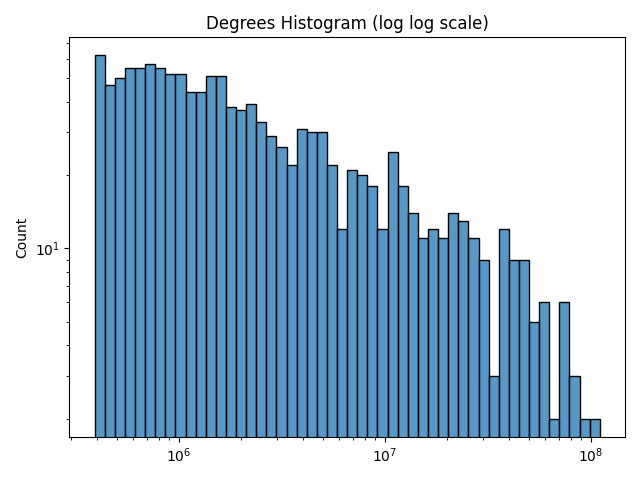
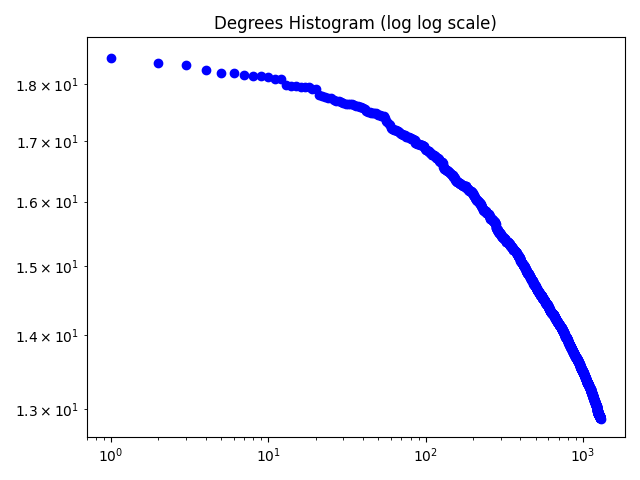
added closeness centrality

diff --git a/airport_network.py b/airport_network.py
@@ -68,8 +68,8 @@ class AirportGraph:
         log_scale_or_not = True
         degrees = np.array([self.graph.degree(n, weight='weight') for n in self.graph.nodes()])
         if log_scale_or_not:
-            sns.histplot(degrees, bins=50, log_scale=(True, True))
-            # plt.loglog(degrees, 'bo')
+            # sns.histplot(degrees,'bo', bins=50, log_scale=(True, True))
+            plt.loglog(sorted(degrees, reverse=True), 'bo')
             # plt.yscale('log')
             # plt.xscale('log')
             plt.title('Degrees Histogram (log log scale)')
@@ -98,6 +98,28 @@ class AirportGraph:
             plt.title('Betweenness Centrality Histogram')
             plt.tight_layout()
             plt.savefig('Betweenness_Centrality_Histogram.png')
+        plt.show()
+
+    def plot_closeness_centrality(self):
+        log_scale_or_not = False
+        # inward_or_outward = "Inward"
+        inward_or_outward = "Outward"
+        if inward_or_outward == "Inward":
+            closeness_centrality = nx.closeness_centrality(self.graph)
+        else:
+            closeness_centrality = nx.closeness_centrality(self.graph.reverse())
+        closeness_centrality_list = [value for key, value in closeness_centrality.items() if value >= 1e-300]
+        plt.clf()
+        if log_scale_or_not:
+            sns.histplot(closeness_centrality_list, bins=200, log_scale=(True, True))
+            plt.title(f'Closeness Centrality Histogram {inward_or_outward}(log log scale)')
+            plt.tight_layout()
+            plt.savefig(f'Closeness_Centrality_Histogram_{inward_or_outward}(log log scale).png')
+        else:
+            sns.histplot(closeness_centrality_list, bins=200, log_scale=(False, False))
+            plt.title(f'Closeness Centrality Histogram {inward_or_outward}')
+            plt.tight_layout()
+            plt.savefig(f'Closeness_Centrality_Histogram_{inward_or_outward}.png')
         plt.show()
 
     def plot_distance_dist(self):

diff --git a/main.py b/main.py
@@ -8,7 +8,8 @@ file_path = os.path.join("Data", "links_0.95.csv")
 nodes_file_path = os.path.join("Data", "nodes_0.95.csv")
 airport_graph = AirportGraph(nodes_file_path, file_path)
 # airport_graph.plot_degree_dist()
-airport_graph.plot_distance_dist()
+# airport_graph.plot_closeness_centrality()
+# airport_graph.plot_distance_dist()
 # nx.nodes_with_selfloops(airport_graph.graph)
 # # graph.nodes_with_selfloops()
 # part = community.best_partition(airport_graph.graph, weight='weight')
@@ -16,7 +17,7 @@ airport_graph.plot_distance_dist()
 # # k_top_airports = airport_graph.find_k_hubs(k)
 # # airport_graph.plot_betweenness_centrality()
 # # print(k_top_airports)
-
+#
 # States Network
 state_graph = StatesGraph(nodes_file_path, airport_graph)
 print("Most Crowded State - not normalized")
@@ -24,3 +25,4 @@ print(state_graph.find_most_crowded_states_airport(k=10))
 
 print("Most Crowded State - normalized")
 print(state_graph.find_most_crowded_states_airport_normalized(k=10))
+state_graph.calc_correlation_between_normalized_and_non_normalized_passangers()

diff --git a/states_network.py b/states_network.py
@@ -3,6 +3,7 @@ import numpy as np
 import matplotlib.pyplot as plt
 import networkx as nx
 import seaborn as sns
+from scipy.stats import pearsonr
 
 
 def load_nodes_file(file_path):
@@ -71,3 +72,10 @@ class StatesGraph:
     def find_most_crowded_states_airport(self, k=10):
         return sorted(list(self.states_graph.nodes(data=True)), key=lambda x: x[1]['weight'], reverse=True)[:k]
 
+    def calc_correlation_between_normalized_and_non_normalized_passangers(self):
+        a = sorted(list(self.normalized_states_graph.nodes(data=True)), key=lambda x: x[0], reverse=True)
+        b = sorted(list(self.states_graph.nodes(data=True)), key=lambda x: x[0], reverse=True)
+        a_values = [np.log(x[1]['weight']) for x in a]
+        b_values = [np.log(x[1]['weight']) for x in b]
+        pearson_corr, pvalue = pearsonr(a_values, b_values)
+        print(f"Pearson Correlation is {pearson_corr}")
